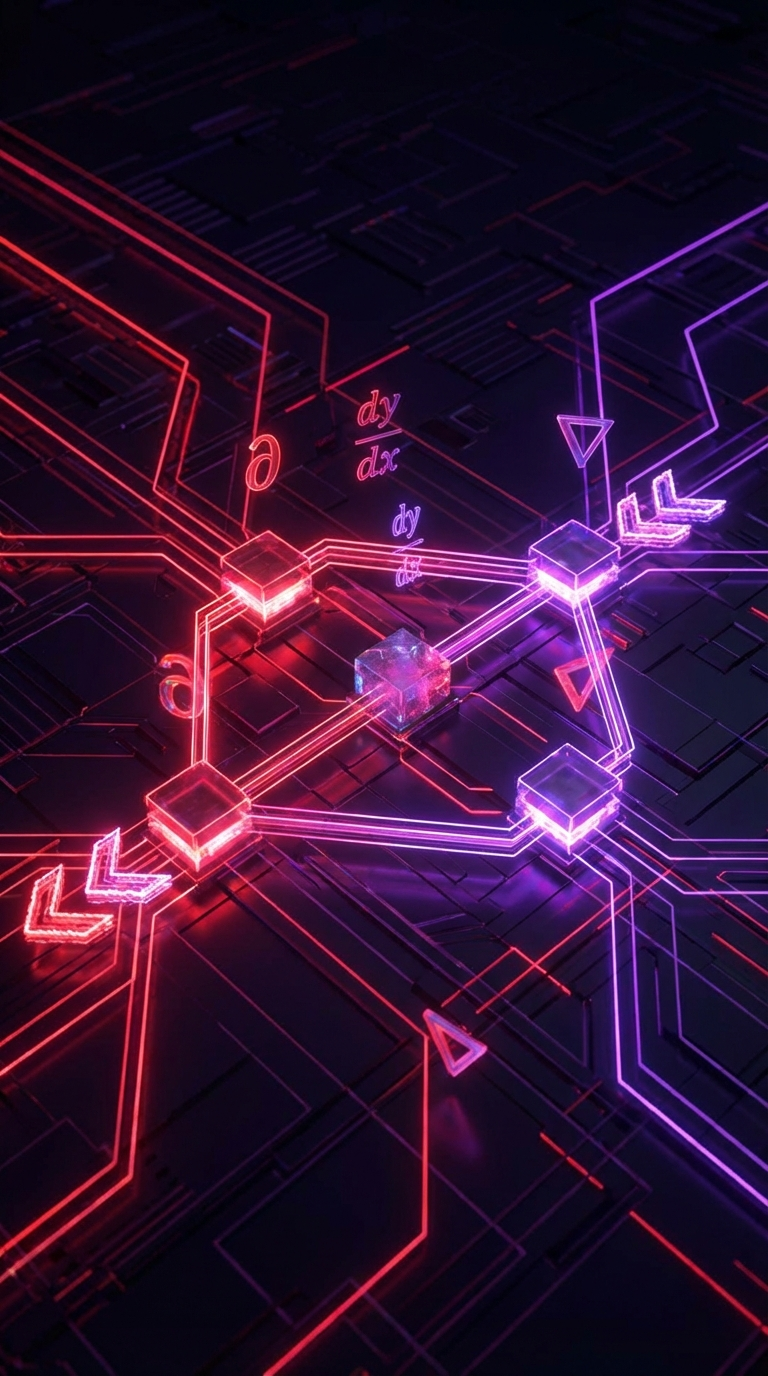
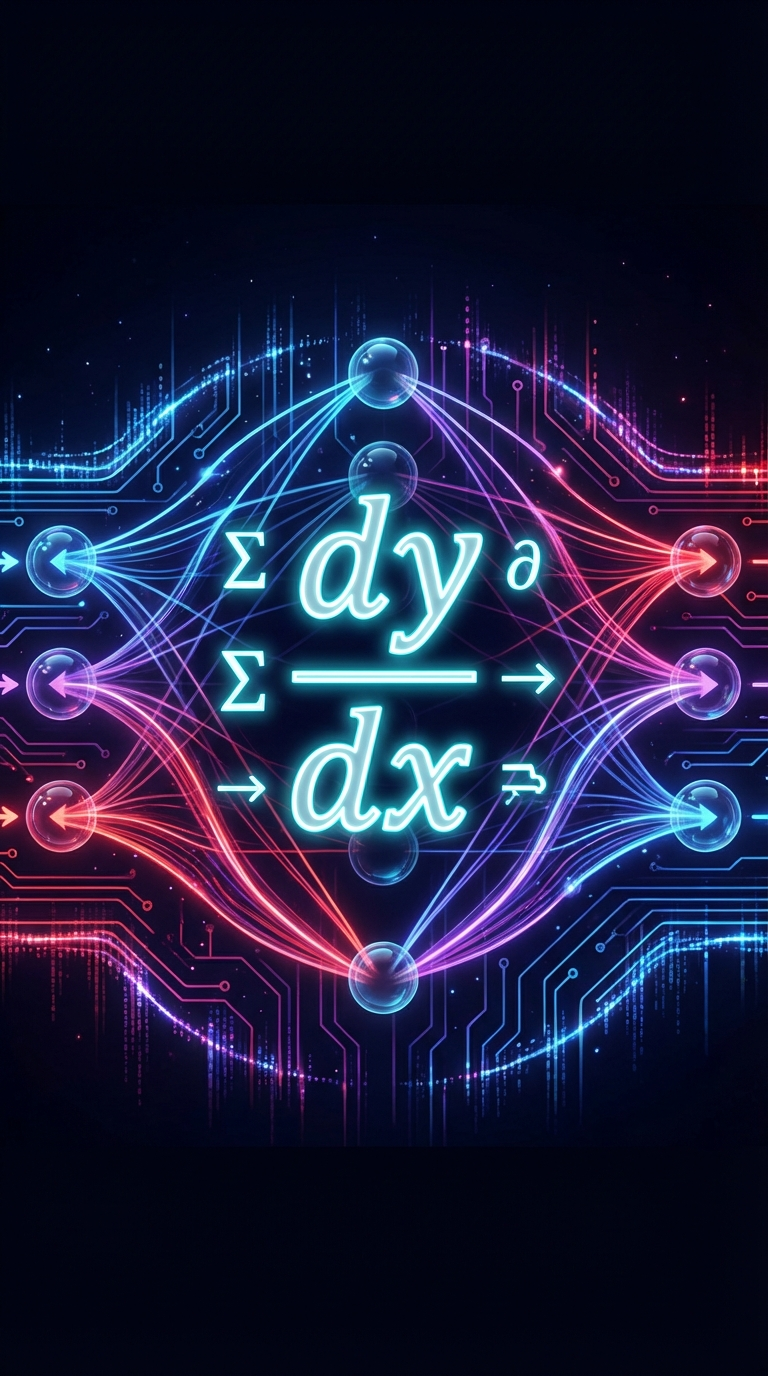
Use full-height image layout for section slides
- Switch from inline images to image-right layout
- Images now cover full right half of slide (top to bottom)
- Regenerate autograd image with prominent dy/dx symbol

diff --git a/slides/part-01/08-autograd.md b/slides/part-01/08-autograd.md
@@ -1,18 +1,12 @@
 ---
-layout: section
+layout: image-right
+image: /images/08-autograd.jpg
+backgroundSize: contain
+backgroundPosition: center
+class: flex flex-col justify-center
 ---
 
-<div class="flex items-center justify-center gap-12">
-
-<div>
-
 # Automatic Differentiation (Autograd)
-
-</div>
-
-<img src="/images/08-autograd.jpg" class="h-80 rounded-lg shadow-xl" />
-
-</div>
 
 ---
 layout: default

diff --git a/slides/part-01/02-tensors-basics.md b/slides/part-01/02-tensors-basics.md
@@ -1,18 +1,12 @@
 ---
-layout: section
+layout: image-right
+image: /images/02-tensors.jpg
+backgroundSize: contain
+backgroundPosition: center
+class: flex flex-col justify-center
 ---
 
-<div class="flex items-center justify-center gap-12">
-
-<div>
-
 # Tensors: The Core Data Structure
-
-</div>
-
-<img src="/images/02-tensors.jpg" class="h-80 rounded-lg shadow-xl" />
-
-</div>
 
 ---
 layout: default

diff --git a/slides/part-01/01-introduction.md b/slides/part-01/01-introduction.md
@@ -1,18 +1,12 @@
 ---
-layout: section
+layout: image-right
+image: /images/01-introduction.jpg
+backgroundSize: contain
+backgroundPosition: center
+class: flex flex-col justify-center
 ---
 
-<div class="flex items-center justify-center gap-12">
-
-<div>
-
 # What is PyTorch?
-
-</div>
-
-<img src="/images/01-introduction.jpg" class="h-80 rounded-lg shadow-xl" />
-
-</div>
 
 ---
 layout: default

diff --git a/slides/part-01/05-reshaping.md b/slides/part-01/05-reshaping.md
@@ -1,18 +1,12 @@
 ---
-layout: section
+layout: image-right
+image: /images/05-reshaping.jpg
+backgroundSize: contain
+backgroundPosition: center
+class: flex flex-col justify-center
 ---
 
-<div class="flex items-center justify-center gap-12">
-
-<div>
-
 # Reshaping and Memory
-
-</div>
-
-<img src="/images/05-reshaping.jpg" class="h-80 rounded-lg shadow-xl" />
-
-</div>
 
 ---
 layout: default

diff --git a/slides/part-01/03-operations.md b/slides/part-01/03-operations.md
@@ -1,18 +1,12 @@
 ---
-layout: section
+layout: image-right
+image: /images/03-operations.jpg
+backgroundSize: contain
+backgroundPosition: center
+class: flex flex-col justify-center
 ---
 
-<div class="flex items-center justify-center gap-12">
-
-<div>
-
 # Tensor Operations
-
-</div>
-
-<img src="/images/03-operations.jpg" class="h-80 rounded-lg shadow-xl" />
-
-</div>
 
 ---
 layout: default

diff --git a/slides/part-01/04-broadcasting.md b/slides/part-01/04-broadcasting.md
@@ -1,18 +1,12 @@
 ---
-layout: section
+layout: image-right
+image: /images/04-broadcasting.jpg
+backgroundSize: contain
+backgroundPosition: center
+class: flex flex-col justify-center
 ---
 
-<div class="flex items-center justify-center gap-12">
-
-<div>
-
 # Broadcasting
-
-</div>
-
-<img src="/images/04-broadcasting.jpg" class="h-80 rounded-lg shadow-xl" />
-
-</div>
 
 ---
 layout: default

diff --git a/slides/part-01/06-indexing.md b/slides/part-01/06-indexing.md
@@ -1,18 +1,12 @@
 ---
-layout: section
+layout: image-right
+image: /images/06-indexing.jpg
+backgroundSize: contain
+backgroundPosition: center
+class: flex flex-col justify-center
 ---
 
-<div class="flex items-center justify-center gap-12">
-
-<div>
-
 # Indexing and Slicing
-
-</div>
-
-<img src="/images/06-indexing.jpg" class="h-80 rounded-lg shadow-xl" />
-
-</div>
 
 ---
 layout: default

diff --git a/slides/part-01/07-numpy-comparison.md b/slides/part-01/07-numpy-comparison.md
@@ -1,18 +1,12 @@
 ---
-layout: section
+layout: image-right
+image: /images/07-numpy.jpg
+backgroundSize: contain
+backgroundPosition: center
+class: flex flex-col justify-center
 ---
 
-<div class="flex items-center justify-center gap-12">
-
-<div>
-
 # PyTorch vs NumPy
-
-</div>
-
-<img src="/images/07-numpy.jpg" class="h-80 rounded-lg shadow-xl" />
-
-</div>
 
 ---
 layout: default
